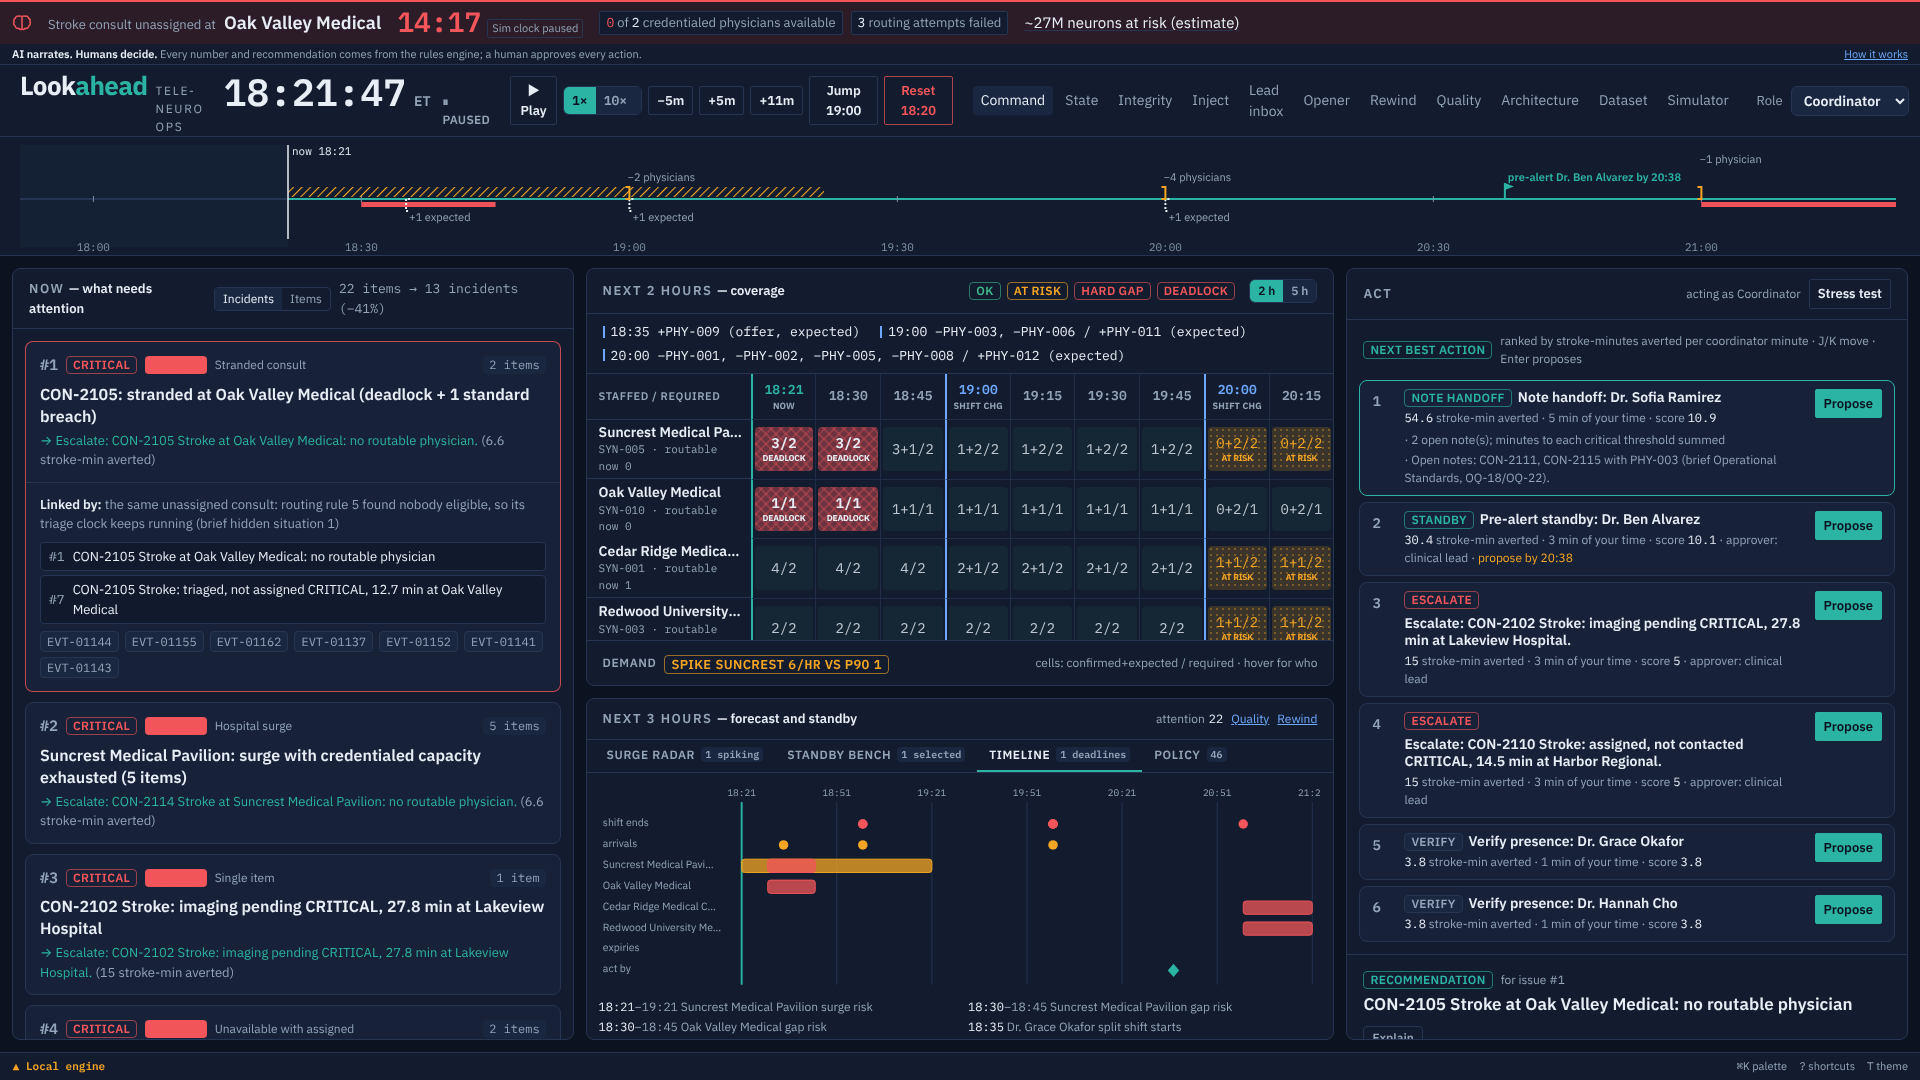
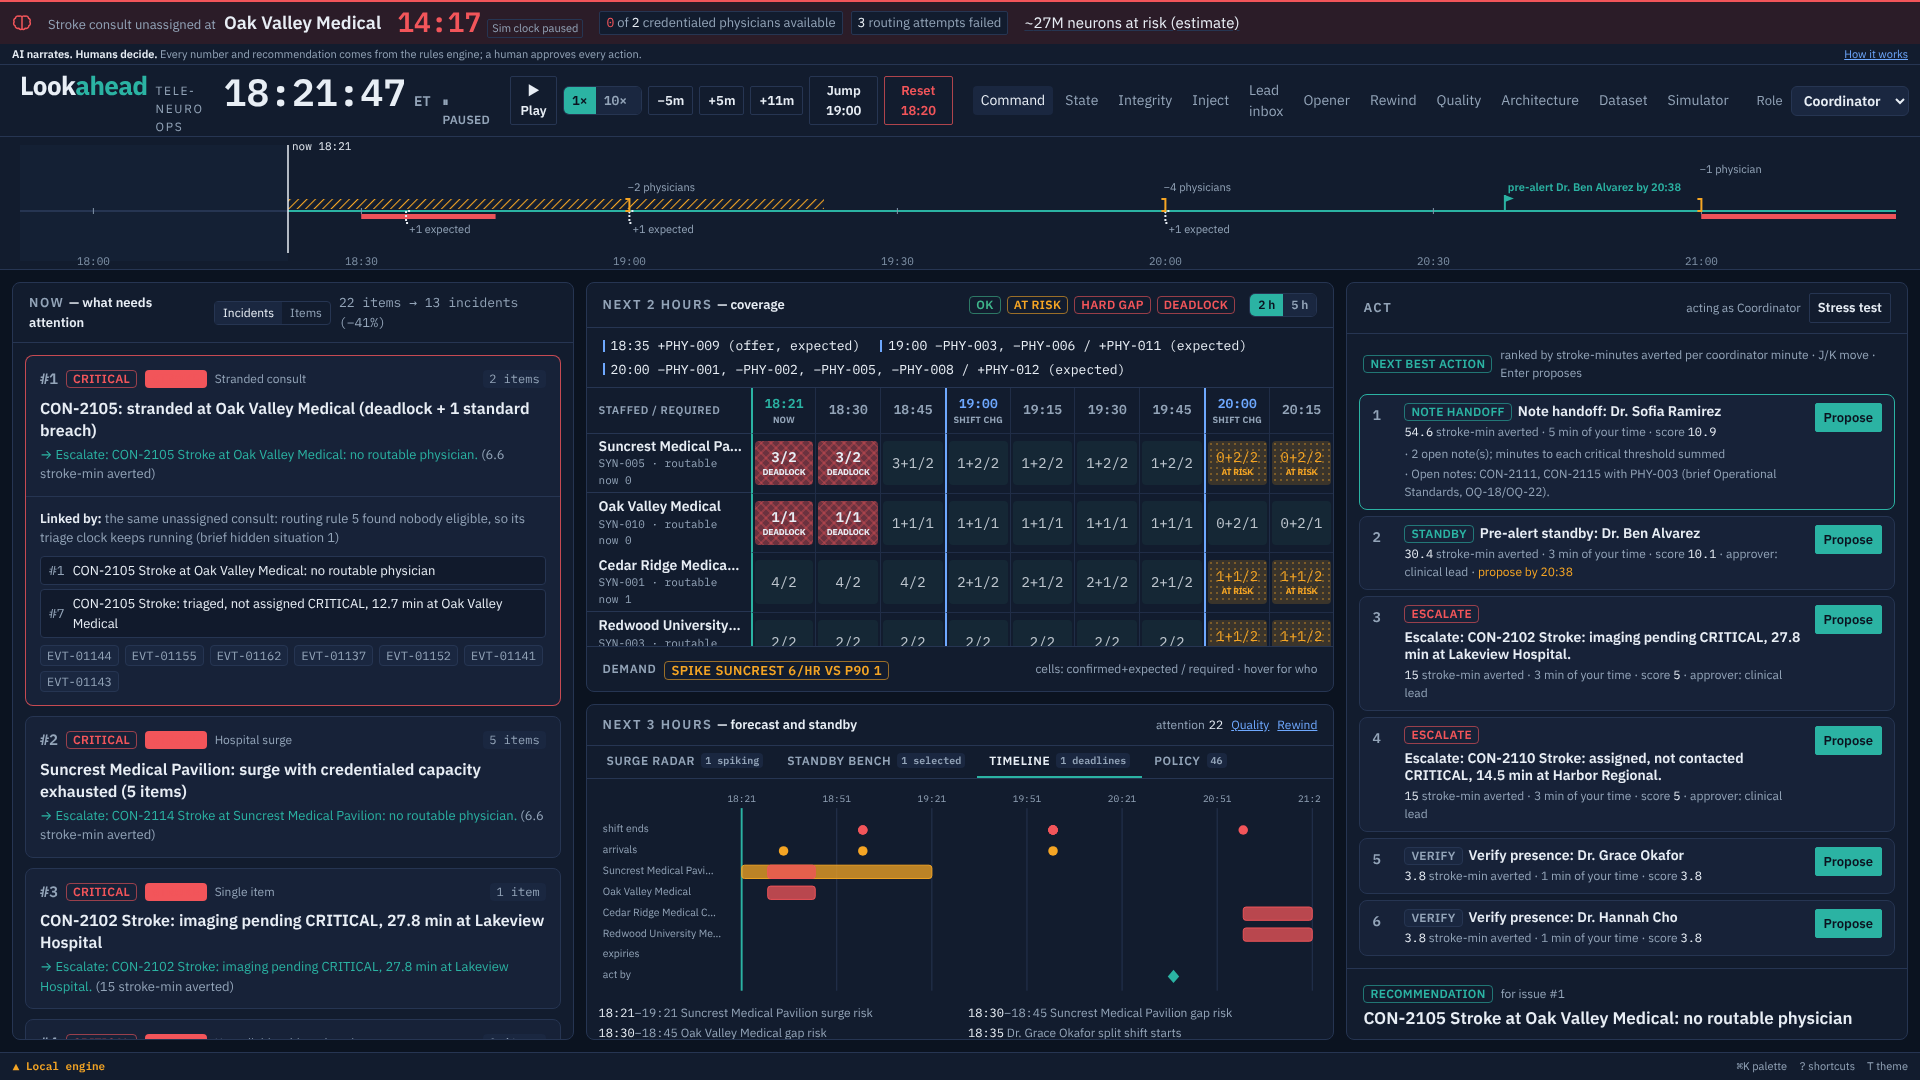
Sprint FINAL: final-check 11/11 green (641/641 vitest, golden freeze, ID + secret scans, env coverage, build, opener, patient clock, 13 stress actions, simulator webhook, scale test); docs/test-report.json; SSE first frame refetches (fixes missed changes between render and connect); Horizon Line now
Claude-Session: https://claude.ai/code/session_01VF7kNRZoBSFtcXLwRTzRC2

diff --git a/apps/web/e2e/ui-screens.spec.ts b/apps/web/e2e/ui-screens.spec.ts
@@ -1,0 +1,63 @@
+import { mkdirSync } from 'node:fs';
+import { fileURLToPath } from 'node:url';
+import { expect, test, type Page } from '@playwright/test';
+import { openLead } from './fixtures';
+
+/**
+ * UI pass screenshot critique set: /, /opener, /rewind, /lead, /standby/[id],
+ * /architecture and /design at 1440x900, 1280x800 and 390x844, in Night and
+ * Day, into docs/screens/ui/. The theme is chosen the way a person would
+ * (the remembered T choice in localStorage) before the page loads.
+ */
+const OUT = fileURLToPath(new URL('../../../docs/screens/ui/', import.meta.url));
+mkdirSync(OUT, { recursive: true });
+const SIZES = [
+  { name: '1440', width: 1440, height: 900 },
+  { name: '1280', width: 1280, height: 800 },
+  { name: '390', width: 390, height: 844 },
+] as const;
+
+async function settle(page: Page): Promise<void> {
+  await page.waitForLoadState('load');
+  await expect(page.getByTestId('status-pill')).toBeVisible({ timeout: 15_000 });
+  await page.waitForTimeout(500);
+}
+
+test('UI screenshots: 7 pages x 3 sizes x Night/Day', async ({ browser, baseURL, request }) => {
+  test.setTimeout(300_000);
+  await request.post('/api/demo/reset');
+  const view = (await (await request.get('/api/view')).json()) as { standby: { plan: { selected: { physicianId: string }[] } } };
+  const physicianId = view.standby.plan.selected[0]?.physicianId ?? '';
+  await request.post('/api/commands', { headers: { 'x-lookahead-role': 'coordinator', 'x-lookahead-actor-id': 'coordinator-on-duty' }, data: { command: { type: 'proposeStandby', physicianId, commandId: 'ui-screens-standby' } } });
+  const v2 = (await (await request.get('/api/view')).json()) as { standby: { standbys: { standbyPath: string }[] } };
+  const standby = v2.standby.standbys[0]?.standbyPath ?? '';
+  for (const theme of ['night', 'day'] as const) {
+    for (const size of SIZES) {
+      const ctx = await browser.newContext({ ...(baseURL === undefined ? {} : { baseURL }), viewport: { width: size.width, height: size.height }, ...(size.name === '390' ? { isMobile: true, hasTouch: true } : {}) });
+      await ctx.addInitScript((t) => {
+        try {
+          localStorage.setItem('lh-theme', t);
+        } catch {
+          // ignore
+        }
+      }, theme);
+      const page = await ctx.newPage();
+      await openLead(page);
+      for (const [name, path] of [
+        ['console', '/'],
+        ['opener', '/opener'],
+        ['rewind', '/rewind'],
+        ['lead', '/lead'],
+        ['standby', standby],
+        ['architecture', '/architecture'],
+        ['design', '/design'],
+      ] as const) {
+        await page.goto(path);
+        await settle(page);
+        await expect(page.locator('html')).toHaveAttribute('data-theme', theme);
+        await page.screenshot({ path: `${OUT}${name}-${size.name}-${theme}.png` });
+      }
+      await ctx.close();
+    }
+  }
+});

diff --git a/apps/web/src/ui/HorizonLine.tsx b/apps/web/src/ui/HorizonLine.tsx
@@ -22,10 +22,10 @@ export const PAST_MIN = 30;
 export const FUTURE_MIN = 180;
 const MIN = 60_000;
 const DEFAULT_W = 1200;
-const H = 118;
+const H = 132;
 const PAD_L = 8;
 const PAD_R = 12;
-const AXIS_Y = 62;
+const AXIS_Y = 74;
 const CHAR_W = 6.1;
 
 export interface HorizonMarker {
@@ -105,7 +105,8 @@ export function placeLabels(markers: readonly HorizonMarker[], x: (ms: number) =
     });
 }
 
-const laneY = (lane: number) => (lane < 0 ? AXIS_Y - 18 - (Math.abs(lane) - 1) * 18 : AXIS_Y + 22 + (lane - 1) * 18);
+// Lanes sit 18 px apart; the topmost lane (-2) stays clear of the "now" label at the top edge.
+const laneY = (lane: number) => (lane < 0 ? AXIS_Y - 20 - (Math.abs(lane) - 1) * 18 : AXIS_Y + 22 + (lane - 1) * 18);
 
 export function HorizonLine({
   items,
@@ -140,7 +141,8 @@ export function HorizonLine({
   const toMs = nowMs + FUTURE_MIN * MIN;
   const x = (ms: number) => PAD_L + ((Math.max(fromMs, Math.min(toMs, ms)) - fromMs) / (toMs - fromMs)) * (W - PAD_L - PAD_R);
   const nowX = x(nowMs);
-  const markers = toMarkers(items);
+  // A deadline already behind the clock is still shown where it fell, labelled overdue (computed, not engine text).
+  const markers = toMarkers(items).map((m) => (m.kind === 'action_deadline' && m.tMs < nowMs ? { ...m, label: `overdue · ${m.label}` } : m));
   const placed = placeLabels(markers, x);
   const bands = markers.filter((m) => m.kind === 'surge_band' || m.kind === 'gap_band');
   const stepMin = W < 700 ? 60 : 30;
@@ -212,7 +214,7 @@ export function HorizonLine({
         )}
         {/* now edge */}
         <line x1={nowX} x2={nowX} y1={8} y2={H - 16} stroke="var(--color-text)" strokeWidth="1.5" />
-        <text x={nowX + 4} y={18} fontSize="11" className="num" fill="var(--color-text)">
+        <text x={nowX + 4} y={13} fontSize="11" className="num" fill="var(--color-text)">
           now {etHm(nowMs)}
         </text>
         {/* point markers */}

diff --git a/apps/web/src/components/Architecture.tsx b/apps/web/src/components/Architecture.tsx
@@ -46,7 +46,7 @@ function Diagram() {
   const bx = x(5);
   return (
     <div className="overflow-x-auto">
-      <svg viewBox={`0 0 ${W} ${H}`} className="min-w-[720px] w-full" role="img" aria-labelledby="arch-title arch-desc">
+      <svg viewBox={`0 0 ${W} ${H}`} className="mx-auto w-full min-w-[720px] max-w-[1100px]" role="img" aria-labelledby="arch-title arch-desc">
         <title id="arch-title">Lookahead decision pipeline</title>
         <desc id="arch-desc">
           ingest, replay, detect, forecast, decide and standby, approval, act, audit, in that order. People act at decide (coordinator), approval (clinical lead) and act (physician). Amazon Bedrock is a separate narrator sidecar that receives engine facts through the fidelity guard and returns text to the screen only; it has no path into approval, act or the action log.

diff --git a/apps/web/src/components/Opener.tsx b/apps/web/src/components/Opener.tsx
@@ -175,7 +175,7 @@ function Assumptions({ a }: { readonly a: OpenerPageDTO['assumptions'] }) {
 export function OpenerContent({ data }: { readonly data: OpenerPageDTO }) {
   const o = data.opener;
   return (
-    <section className="mx-auto w-full max-w-[1000px] px-4 py-8 text-left sm:px-8 sm:py-12" data-testid="opener">
+    <section className="w-full max-w-[1080px] px-4 py-8 text-left sm:px-16 sm:py-12" data-testid="opener">
       <div className="text-[13px] font-semibold uppercase tracking-wider text-muted">Lookahead · if it had been running today</div>
       {o === null ? (
         <p className="mt-6 text-[24px] leading-snug sm:text-[32px]" data-testid="opener-empty">

diff --git a/apps/web/src/components/live.tsx b/apps/web/src/components/live.tsx
@@ -84,9 +84,8 @@ export function useStoreVersion(onVersion: () => void, debounceMs = 200): SseSta
       try {
         const d = JSON.parse(m.data) as { version?: number };
         if (typeof d.version !== 'number' || d.version === last) return;
-        const first = last === null;
+        // The first frame also refetches: a change that landed between the server render and the SSE connect would otherwise never show.
         last = d.version;
-        if (first) return;
         if (timer !== null) clearTimeout(timer);
         timer = setTimeout(() => cb.current(), debounceMs);
       } catch {

diff --git a/apps/web/src/app/globals.css b/apps/web/src/app/globals.css
@@ -135,3 +135,18 @@ body {
   outline: 2px solid var(--color-accent);
   outline-offset: -2px;
 }
+
+/* Compact density (D key, UI pass): tighter console spacing; type sizes unchanged. */
+html[data-density='compact'] main.grid {
+  gap: 0.5rem;
+  padding: 0.5rem;
+}
+html[data-density='compact'] [data-testid='attention-card'] > button,
+html[data-density='compact'] [data-testid='attention-top'] > button {
+  padding-top: 0.375rem;
+  padding-bottom: 0.375rem;
+}
+html[data-density='compact'] [data-testid='nba-card'] {
+  padding-top: 0.25rem;
+  padding-bottom: 0.25rem;
+}

diff --git a/apps/web/src/components/AttentionList.tsx b/apps/web/src/components/AttentionList.tsx
@@ -178,6 +178,10 @@ export function AttentionList({ items, incidents, reduction }: { readonly items:
         </div>
       }
     >
+      {/* Assertive announcements for P1 only (UI pass accessibility): the top critical headline. */}
+      <div aria-live="assertive" className="sr-only">
+        {items[0]?.severity === 'critical' ? `Critical: ${items[0].headline}` : ''}
+      </div>
       <div className="scroll-thin flex-1 overflow-y-auto">
         {showIncidents ? (
           <IncidentList incidents={incidents} items={items} />
